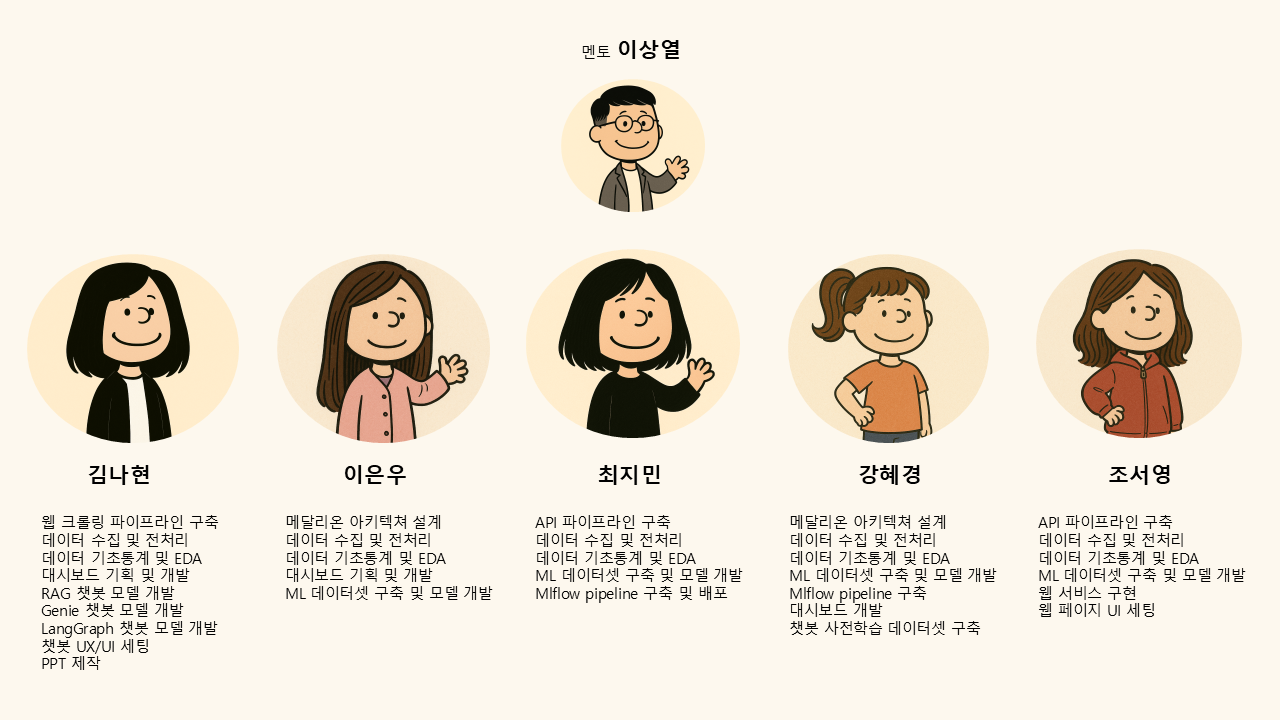
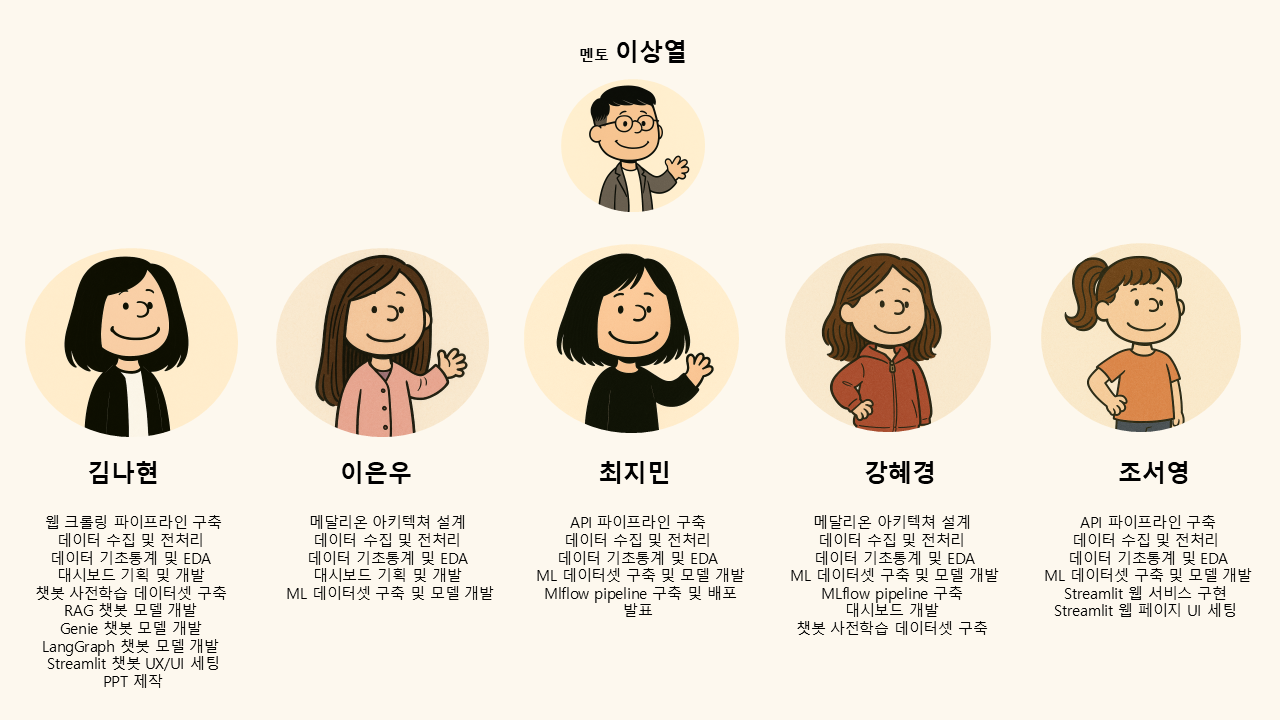
[#58][Change] 페이지 UI 수정 및 utils 파일 추가

diff --git a/StreamlitApp/Main.py b/StreamlitApp/Main.py
@@ -1,6 +1,13 @@
 import streamlit as st
 from utils.css_loader import load_css
-from streamlit import switch_page 
+from streamlit import switch_page
+from utils.image_loader import (
+    load_dashboard_preview,
+    load_model_prediction_api_preview,
+    load_chatbot_preview,
+    load_team_image
+)
+# from streamlit_extras.switch_page_button import switch_page
 
 # 페이지 제목  
 st.set_page_config(page_title="폐업 예측 모델과 상권 인사이트 도구 개발", page_icon="🏪", layout="wide")
@@ -62,20 +69,21 @@ if st.session_state.selected_page == "프로젝트 소개":
         st.markdown("""
             <div style='font-size:15px; line-height:1.8'>
 
-            소상공인의 폐업률은 지속적으로 증가하고 있으며, 업종·지역 간 성과 격차도 심화되는 상황에서 **데이터 기반의 지원 시스템** 필요성이 커지고 있습니다.  
-            하지만 기존 상권 분석 플랫폼은 **폐업률이나 정책 사례까지 통합적으로 확인하기에는 한계**가 있습니다.  
+            소상공인의 폐업률은 지속적으로 증가하고 있으며, 업종·지역 간 성과 격차도 심화되는 가운데 **데이터 기반의 지원 시스템** 필요성이 커지고 있습니다.  
+            하지만 기존 상권 분석 플랫폼은 폐업률, 정책 사례, 실시간 정보 등을 **한눈에 통합적으로 파악하기 어렵다는 한계**가 있습니다.    
 
-            이에 따라 본 프로젝트는 **공공데이터를 기반으로 폐업 위험을 예측하고**, **상권·업종 데이터와 정책 정보를 통합**하여  
+            이에 본 프로젝트는 **공공데이터를 기반으로 폐업 위험을 예측하고**, **상권·업종 데이터와 정책 정보를 결합**하여  
             소상공인의 **창업 안정성과 정책 연계 지원**을 위한 **AI 기반 상권 인사이트 시스템**을 구축했습니다.
 
-            이 프로젝트는 **데이터 수집·분석 및 대시보드를 통한 인사이트 도출, 예측 모델 개발, FastAPI 배포, LangGraph 기반 챗봇 구현**까지 총 네 단계로 구성되며,  
-            최종적으로 **Streamlit 웹 서비스**로 통합 제공됩니다.
-            <br><br>  
+            프로젝트는 다음과 같은 **네 단계**로 구성되어 있으며, 최종 결과물은 **Streamlit 기반의 통합 웹 서비스**로 제공됩니다.  
+            **각 단계의 주요 내용은 다음과 같습니다.**
+            <br><br>
 
-            🔹 상권·인구·매출 등 실시간 데이터 수집 및 전처리<br>
-            🔹 폐업 예측 모델 개발 및 API화 (MLflow + FastAPI)<br>
-            🔹 LangGraph 챗봇 구축<br>
-            🔹 Streamlit으로 통합 웹 서비스 제공
+            🔹 상권·인구·매출 등 실시간 공공데이터 수집 및 Databricks 기반 대시보드 개발  
+            🔹 폐업 예측 모델 개발 및 API 배포 (MLflow + FastAPI)  
+            🔹 LangGraph 기반 맞춤형 챗봇 구축  
+            🔹 대시보드·예측 모델·챗봇을 통합한 Streamlit 웹 서비스 구현  
+
             </div>
         """, unsafe_allow_html=True)
     
@@ -87,7 +95,7 @@ if st.session_state.selected_page == "프로젝트 소개":
         col1, col2 = st.columns([2.5, 2.5])  
         with col1:
             st.write(" ")
-            st.image("assets/images/dashboard_preview.png", width=600)
+            st.image(load_dashboard_preview(), width=600)
         with col2:
             st.write(" ")
             st.markdown("### 📊 대시보드")
@@ -112,14 +120,14 @@ if st.session_state.selected_page == "프로젝트 소개":
         col1, col2 = st.columns([2.5, 2.5])  
         with col1:
             st.write(" ")
-            st.image("assets/images/model_prediction_api_preview.png", width=600)
+            st.image(load_model_prediction_api_preview(), width=600)
         with col2:
             st.write(" ")
             st.markdown("### 🧾 Model Prediction API")
             st.markdown("""
                 <div style="font-size:14px; line-height:1.6">
                 <ul style="padding-left: 1.2rem">
-                    <li>스마트치안 빅데이터 플랫폼 데이터를 활용한 <strong>서울특별시 폐업 예측 모델</strong></li>
+                    <li>스마트 치안 빅데이터 플랫폼 데이터를 활용한 <strong>서울특별시 폐업 예측 모델</strong></li>
                     <li>행정안전부 인허가 데이터를 활용한 <strong>전국 단위 폐업 예측 모델</strong></li>
                     <li><strong>'Try it out' 버튼</strong>을 통해 폐업 확률 및 예측값(0: 폐업, 1: 영업)을 확인 가능</li>
                 </ul>
@@ -135,7 +143,7 @@ if st.session_state.selected_page == "프로젝트 소개":
         col1, col2 = st.columns([2.5, 2.5])  
         with col1:
             st.write(" ")
-            st.image("assets/images/chatbot_preview.png", width=600)
+            st.image(load_chatbot_preview(), width=600)
         with col2:
             st.write(" ")
             st.markdown("### 🤖 ChatBot")
@@ -157,7 +165,7 @@ if st.session_state.selected_page == "프로젝트 소개":
 elif st.session_state.selected_page == "팀원 소개":
     with st.expander("👨👩👧👦 팀원 소개", expanded=True):
         st.write(" ")
-        st.image("assets/images/team_introduce.png", use_container_width=True)
+        st.image(load_team_image(), use_container_width=True)
 
 elif st.session_state.selected_page == "기타 정보":
     with st.expander("📚 기타 정보", expanded=True):
@@ -176,24 +184,24 @@ elif st.session_state.selected_page == "기타 정보":
             <div class="section-title">🔹 데이터 출처 및 설명</div>
 
             <p><b>▸ 스마트 치안 빅데이터 플랫폼</b><br>
-            폐업률, 생존율, 소비 특성, 평균 영업 기간, 상권 활성화 지수 관련 데이터<br>
-            <a href="https://www.bigdata-policing.kr" target="_blank">https://www.bigdata-policing.kr</a></p>
+            &nbsp;&nbsp;&nbsp;&nbsp;→ 폐업률, 생존율, 소비 특성, 평균 영업 기간, 상권 활성화 지수 관련 데이터<br>
+            &nbsp;&nbsp;&nbsp;&nbsp;→ <a href="https://www.bigdata-policing.kr" target="_blank">https://www.bigdata-policing.kr</a></p>
 
             <p><b>▸ LOCALDATA (행정안전부 지방인허가 데이터)</b><br>
-            업종, 시도/시군구, 인허가일자, 폐업일자 데이터<br>
-            <a href="https://www.localdata.go.kr" target="_blank">https://www.localdata.go.kr</a></p>
+            &nbsp;&nbsp;&nbsp;&nbsp;→ 업종, 시도, 시군구, 인허가일자, 폐업일자 데이터<br>
+            &nbsp;&nbsp;&nbsp;&nbsp;→ <a href="https://www.localdata.go.kr" target="_blank">https://www.localdata.go.kr</a></p>
 
             <p><b>▸ 소상공인시장진흥공단</b><br>
-            상권 정보, 상가 업소, 지원 사업 관련 데이터<br>
-            <a href="https://www.sbiz.or.kr" target="_blank">https://www.sbiz.or.kr</a></p>
+            &nbsp;&nbsp;&nbsp;&nbsp;→ 상권 정보, 상가 업소, 지원 사업 관련 데이터<br>
+            &nbsp;&nbsp;&nbsp;&nbsp;→ <a href="https://www.sbiz.or.kr" target="_blank">https://www.sbiz.or.kr</a></p>
 
             <p><b>▸ 서울 열린데이터 광장</b><br>
-            실시간 유동인구, 실시간 상권현황, 상권별 분기 매출 데이터<br>
-            <a href="https://data.seoul.go.kr" target="_blank">https://data.seoul.go.kr</a></p>
+            &nbsp;&nbsp;&nbsp;&nbsp;→ 실시간 유동인구, 실시간 상권현황, 상권별 분기 매출 데이터<br>
+            &nbsp;&nbsp;&nbsp;&nbsp;→ <a href="https://data.seoul.go.kr" target="_blank">https://data.seoul.go.kr</a></p>
 
             <p><b>▸ 행정안전부 도로명주소 API</b><br>
-            시도, 시군구, 법정동 정보 수집 및 전처리에 활용<br>
-            <a href="https://www.juso.go.kr" target="_blank">https://www.juso.go.kr</a></p>
+            &nbsp;&nbsp;&nbsp;&nbsp;→ 시도, 시군구, 법정동 정보를 수집하여 모델의 피처처로 활용<br>
+            &nbsp;&nbsp;&nbsp;&nbsp;→ <a href="https://www.juso.go.kr" target="_blank">https://www.juso.go.kr</a></p>
 
             </div>
         """, unsafe_allow_html=True)

diff --git a/StreamlitApp/utils/image_loader.py b/StreamlitApp/utils/image_loader.py
@@ -1,0 +1,22 @@
+from pathlib import Path
+from PIL import Image
+import streamlit as st
+
+# StreamlitApp 기준 경로
+BASE_PATH = Path(__file__).parent.parent
+
+@st.cache_data
+def load_dashboard_preview():
+    return Image.open(BASE_PATH / "assets/images/dashboard_preview.png")
+
+@st.cache_data
+def load_model_prediction_api_preview():
+    return Image.open(BASE_PATH / "assets/images/model_prediction_api_preview.png")
+
+@st.cache_data
+def load_chatbot_preview():
+    return Image.open(BASE_PATH / "assets/images/chatbot_preview.png")
+
+@st.cache_data
+def load_team_image():
+    return Image.open(BASE_PATH / "assets/images/team_introduce.png")

diff --git a/StreamlitApp/utils/dashboard_embbder.py b/StreamlitApp/utils/dashboard_embbder.py
@@ -25,7 +25,7 @@ def embed_dashboard(
     </style>
     """, unsafe_allow_html=True)
 
-    # 대시보드 설명명
+    # 대시보드 설명
     if description:
         st.markdown(f"<p style='margin-bottom: 0.5rem; color: #444;'>{description}</p>", unsafe_allow_html=True)
 

diff --git a/StreamlitApp/pages/2_🧾_Model_Prediction_API.py b/StreamlitApp/pages/2_🧾_Model_Prediction_API.py
@@ -1,6 +1,8 @@
 import streamlit as st
 from utils.css_loader import load_css 
 
+st.set_page_config(page_title="Model Prediction API", layout="wide")
+
 # CSS 로드
 load_css("main.css")
 load_css("api_document.css")
